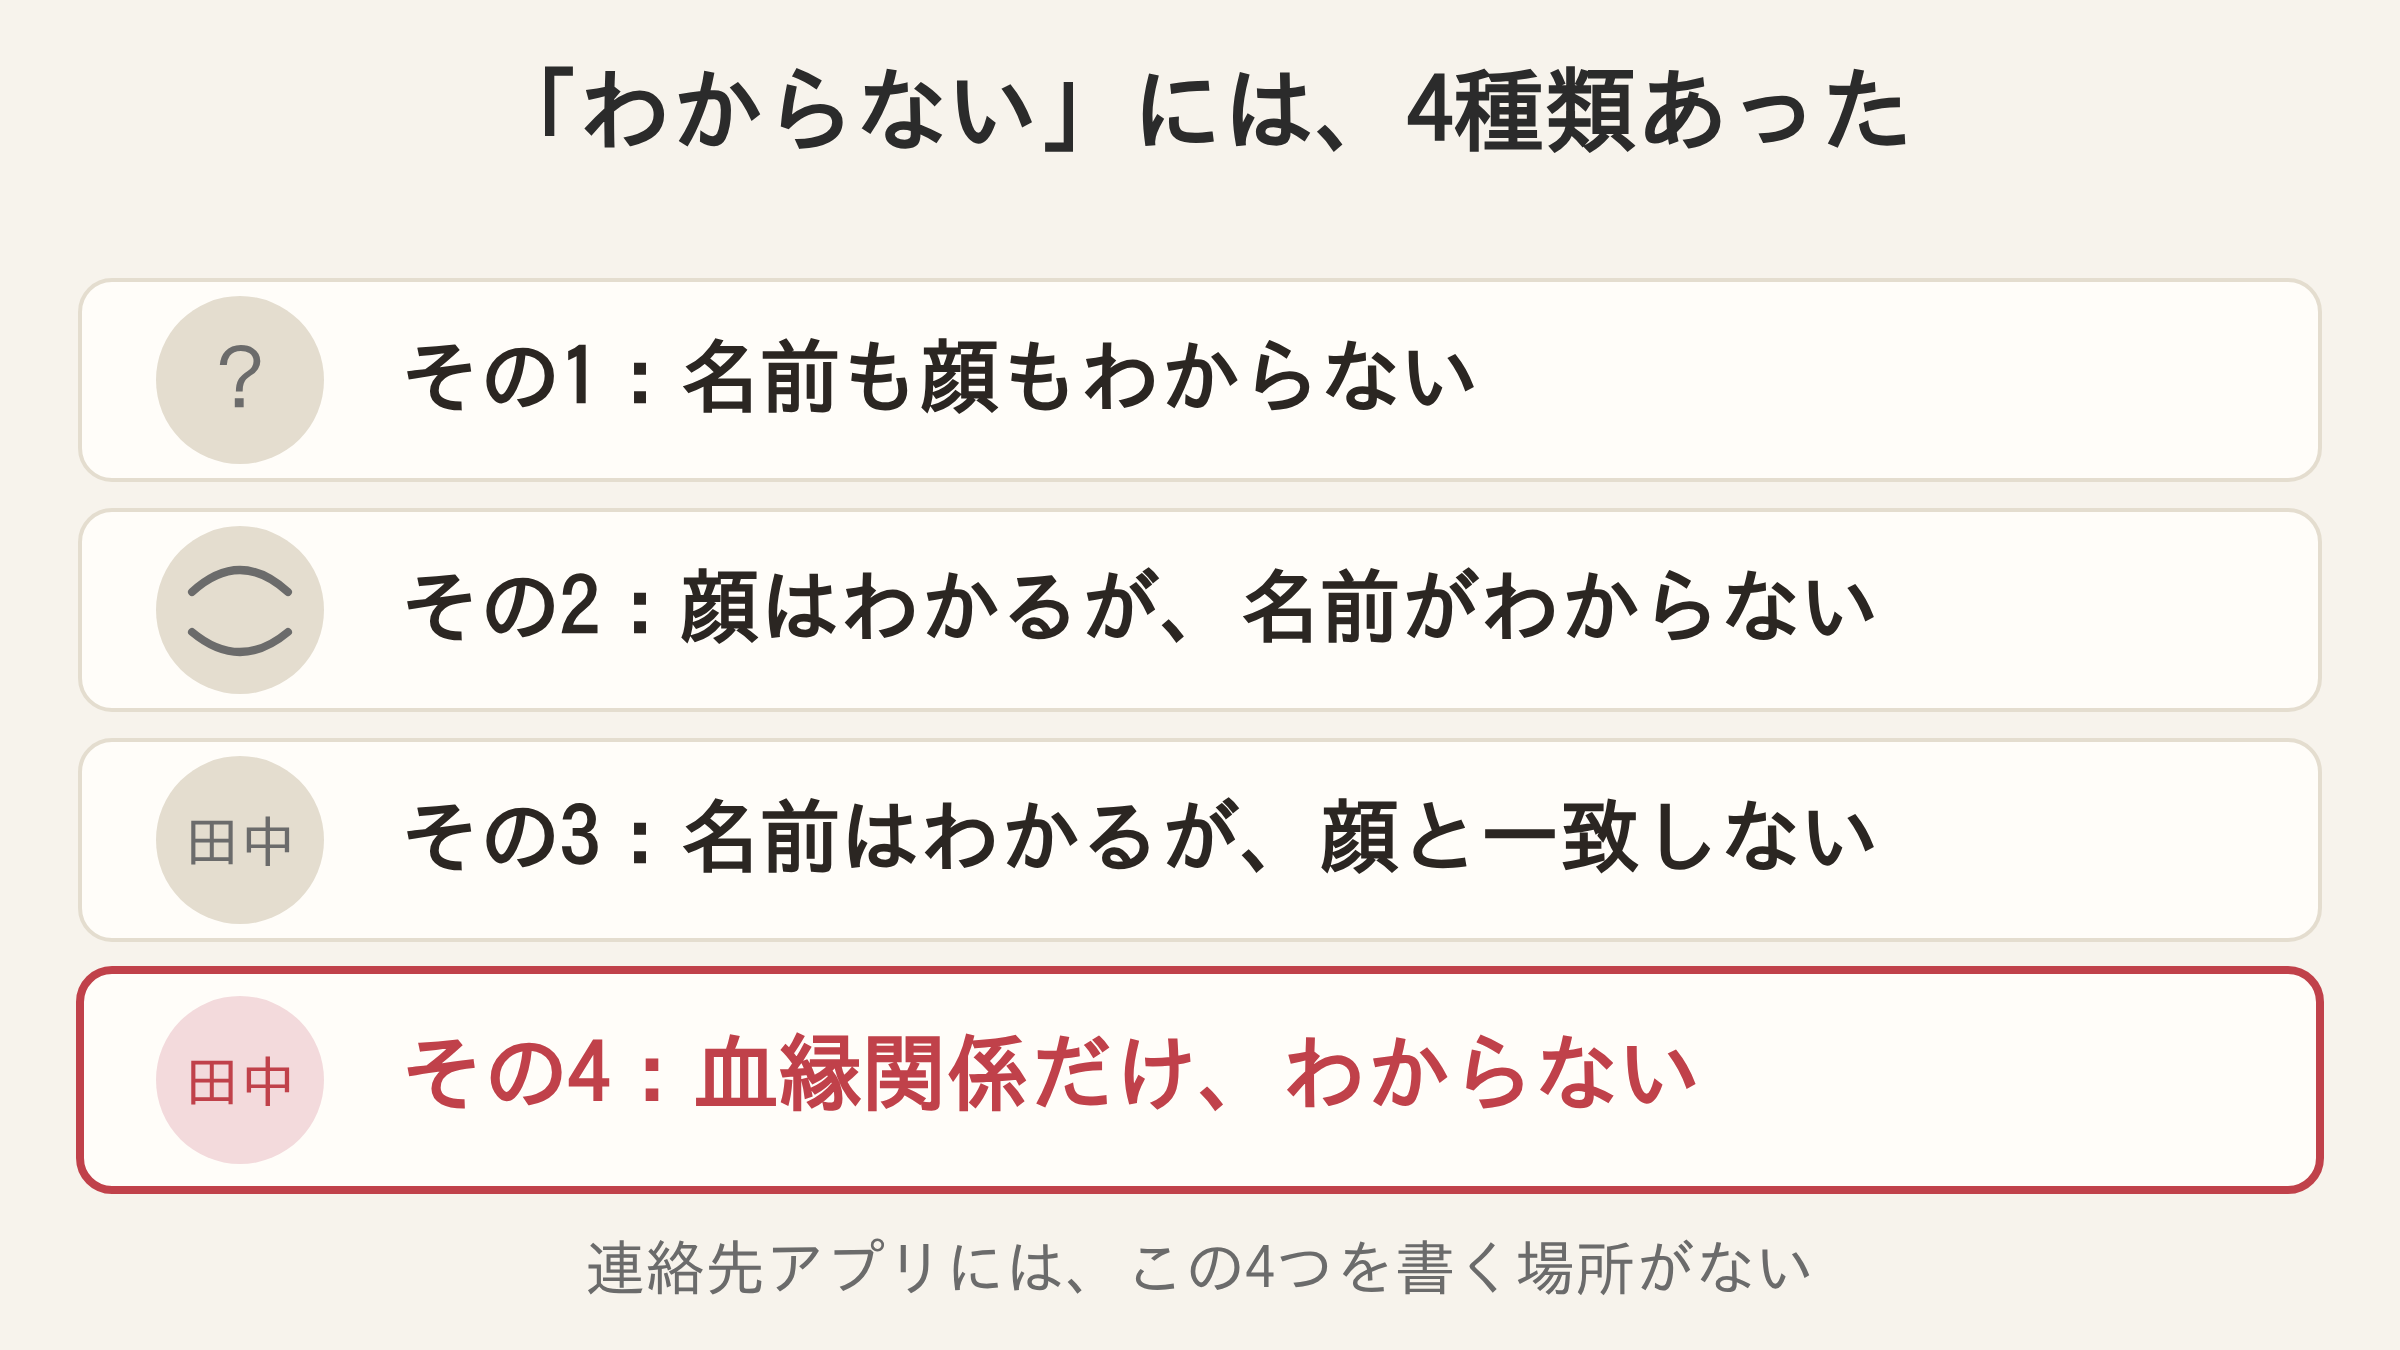
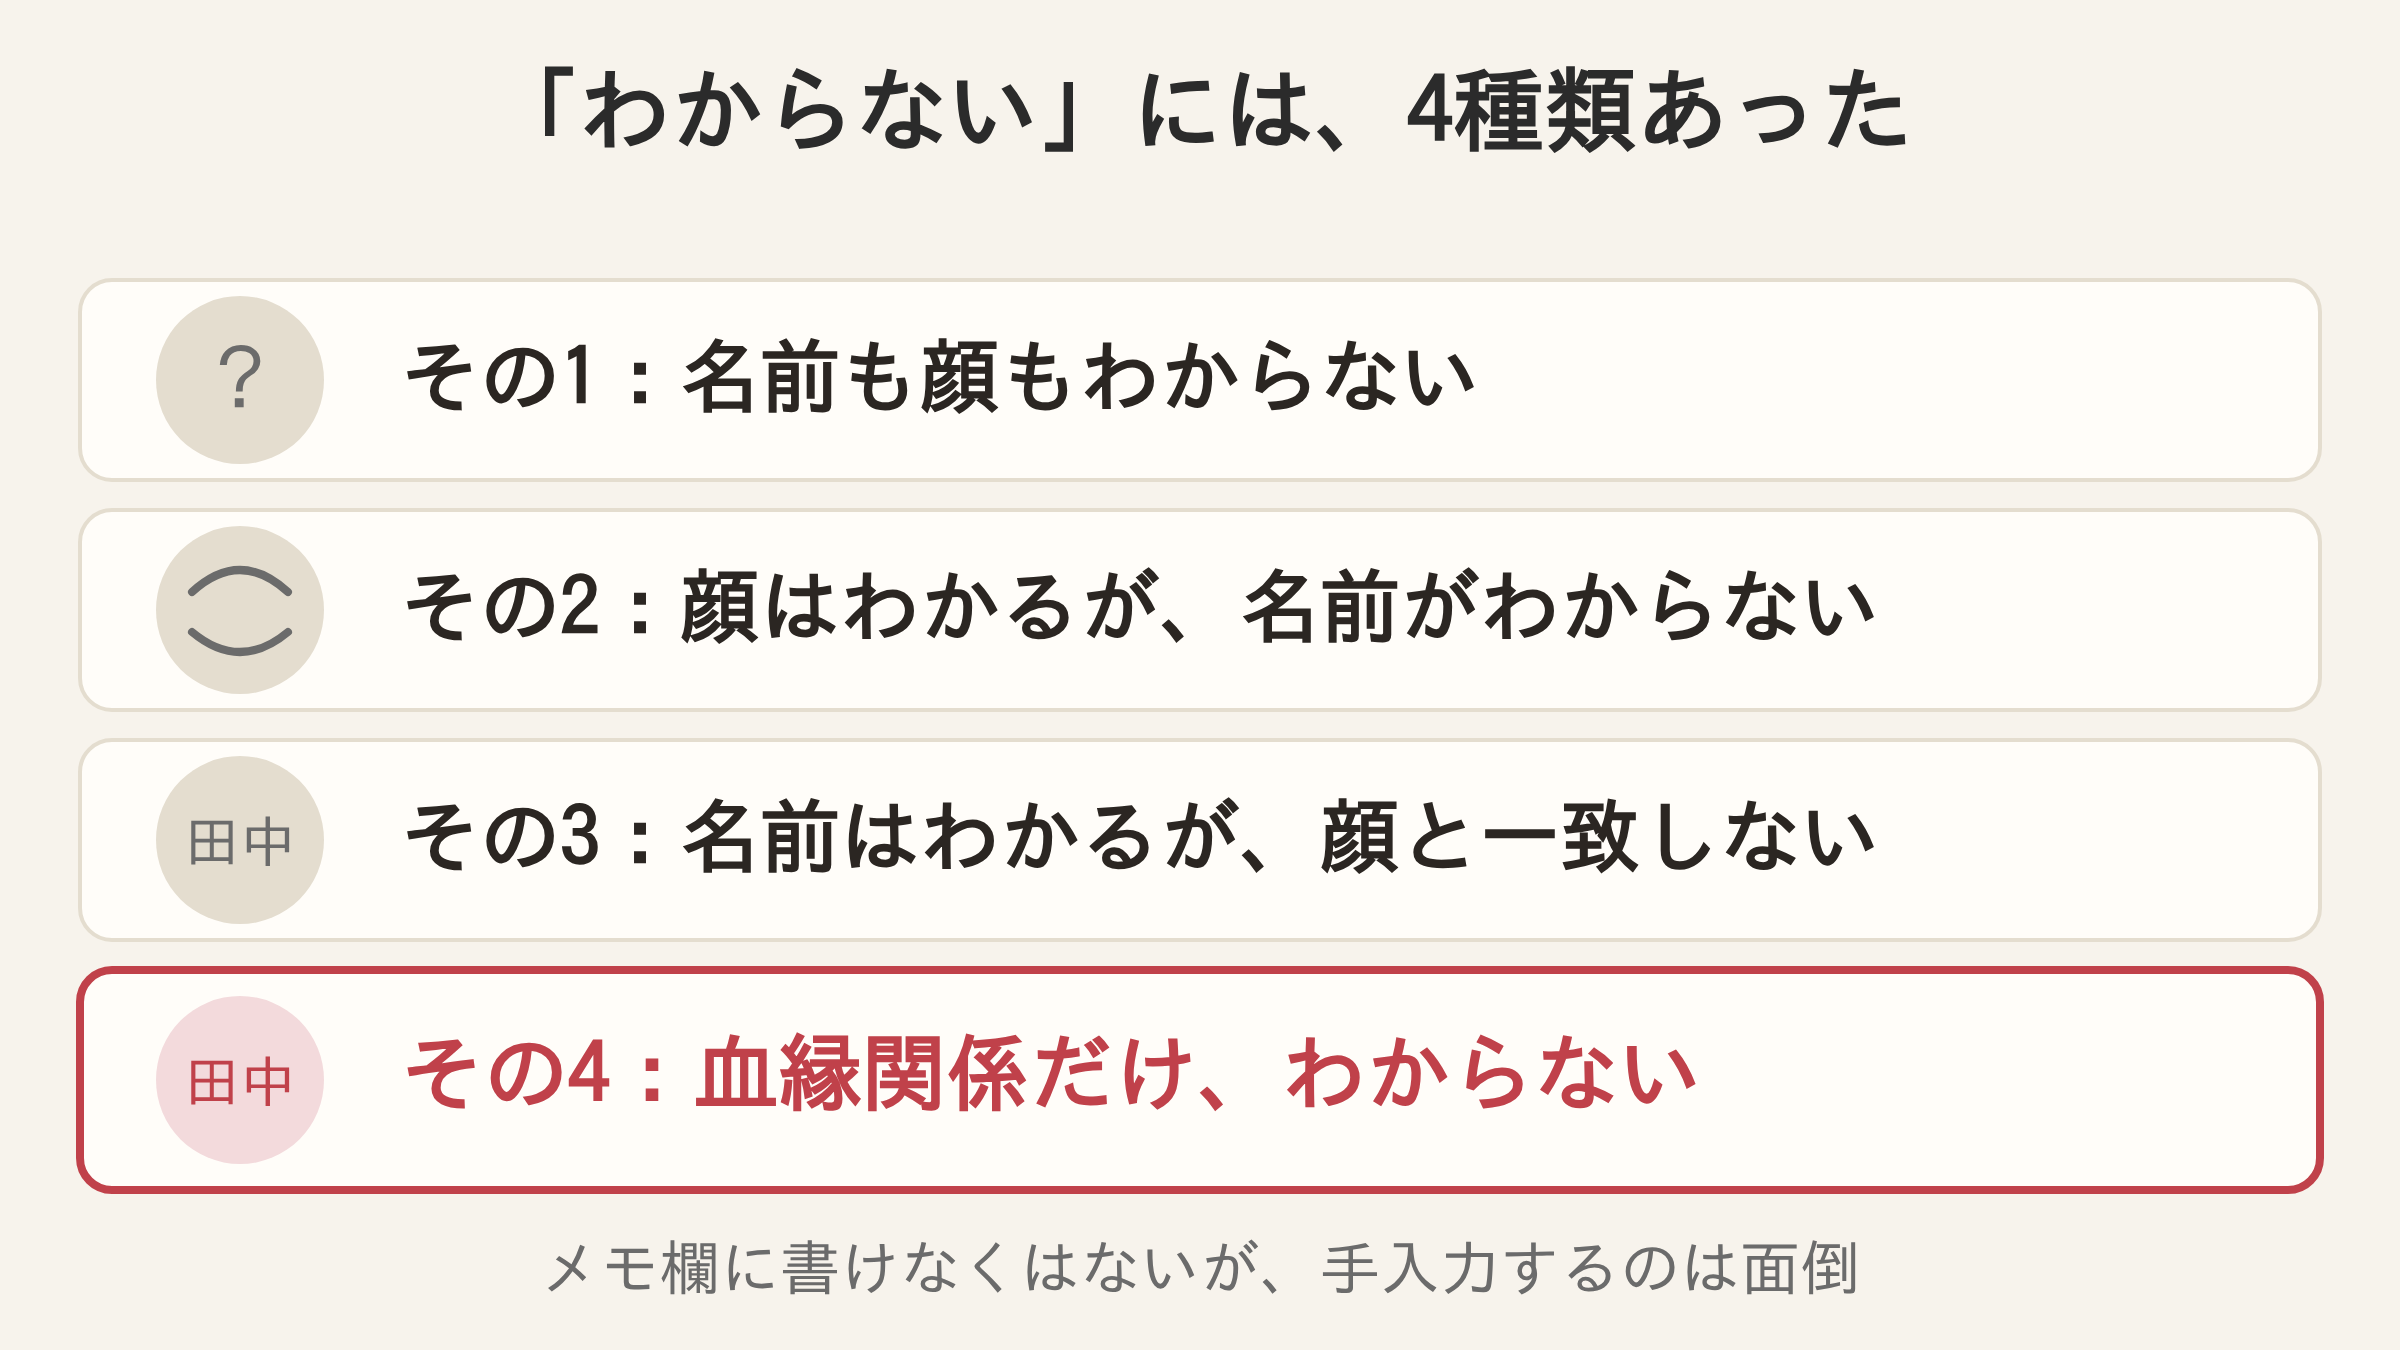
note記事：「書く場所がない」の表現を実情に合わせて修正（メモ欄に手入力すれば書けるが面倒、という表現に）

Changed region(s): [[0.2188, 0.9022, 0.7812, 0.9644]]

diff --git a/note/00_取材メモ.md b/note/00_取材メモ.md
@@ -123,3 +123,9 @@
 - 正：ハブ側では血縁・友人知人・仕事関係・自由入力まで関係を幅広く登録できる。
   そのなかで「親子」「夫婦」「兄弟姉妹」といった続柄を選ぶと、家系図がそこだけを自動で拾って世代整列する
 - 詳細は本文参照（すでに02・03に反映済み）
+
+## 訂正：連絡先アプリに「書く場所がない」という表現（読者フィードバックで修正）
+
+- 誤：「連絡先アプリには、この4つのどれも解決する場所がありません」
+- 正：メモ欄に手入力すれば書けなくはない。実情は「場所がない」のではなく「手入力するのが面倒だから、結局書かれないまま終わる」
+- 図1のキャプションも「書く場所がない」→「メモ欄に書けなくはないが、手入力するのは面倒」に修正

diff --git a/note/03_下書き用_コピペ本文.md b/note/03_下書き用_コピペ本文.md
@@ -31,8 +31,9 @@
 3. 名前は知っているが、顔と一致しない
 4. 名前も顔も知っているが、**どういう血縁関係かわからない**
 
-連絡先アプリには、この4つのどれも解決する場所がありません。
-名前と電話番号は書けても、「この人が誰の何なのか」を書く欄がないからです。
+連絡先アプリのメモ欄に手入力すれば、書けなくはありません。
+でも、続柄や「誰の何なのか」を一人ひとり書き起こしていくのは、正直かなり面倒です。
+書く場所がないのではなく、書くのが面倒だから、結局書かないままになるんだと思います。
 
 ## 香典返しのリストで、完全に詰まった
 

diff --git a/note/02_本文ドラフト.md b/note/02_本文ドラフト.md
@@ -49,8 +49,9 @@
 3. 名前は知っているが、顔と一致しない
 4. 名前も顔も知っているが、**どういう血縁関係かわからない**
 
-連絡先アプリには、この4つのどれも解決する場所がありません。
-名前と電話番号は書けても、「この人が誰の何なのか」を書く欄がないからです。
+連絡先アプリのメモ欄に手入力すれば、書けなくはありません。
+でも、続柄や「誰の何なのか」を一人ひとり書き起こしていくのは、正直かなり面倒です。
+書く場所がないのではなく、書くのが面倒だから、結局書かないままになるんだと思います。
 
 ---
 
